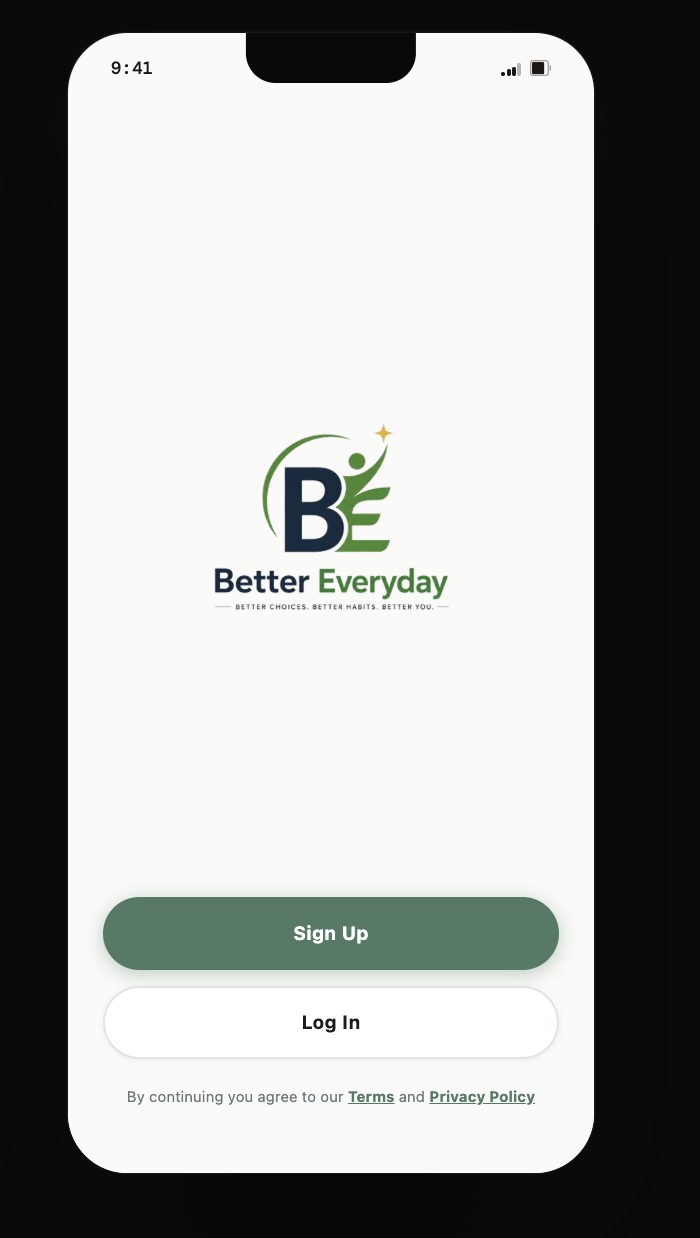
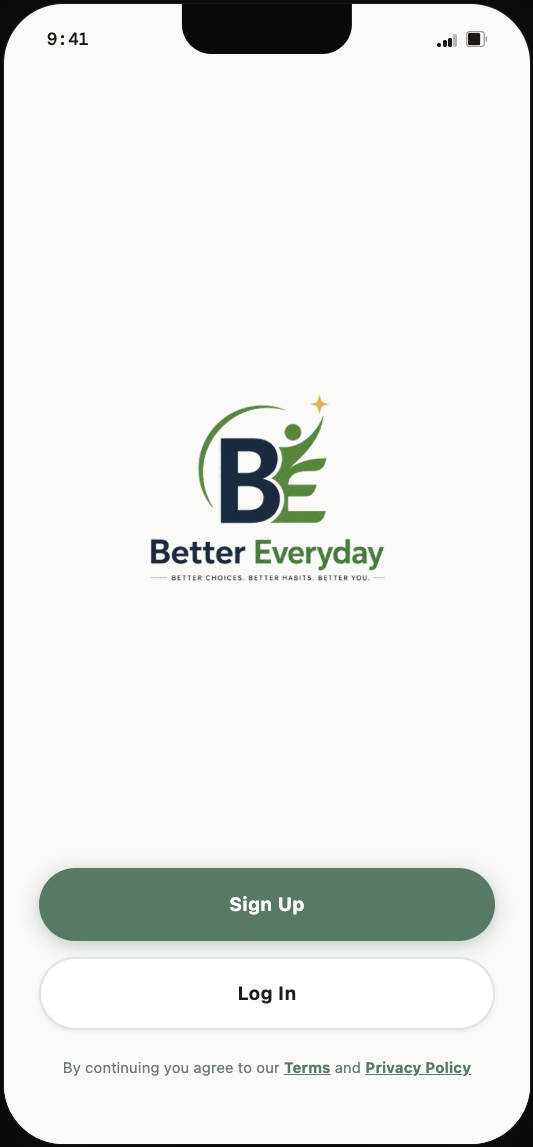
Crop hero mockup and add real store badges
The prelogin.png export had black padding around the phone frame,
which was showing as a dark halo in the hero. Cropped it tight and
swapped the text pill CTAs for actual App Store / Google Play badges.

Claude-Session: https://claude.ai/code/session_01EDTWD7oLbHzTaj5qTHFNUN

diff --git a/src/components/StoreBadges.tsx b/src/components/StoreBadges.tsx
@@ -1,0 +1,42 @@
+function AppleLogo() {
+  return (
+    <svg viewBox="0 0 24 24" className="h-6 w-6 fill-current">
+      <path d="M16.365 1.43c0 1.14-.493 2.27-1.177 3.08-.744.9-1.99 1.57-2.987 1.57-.12 0-.23-.02-.3-.03-.01-.06-.04-.22-.04-.39 0-1.15.572-2.27 1.206-2.98.804-.94 2.142-1.64 3.248-1.68.03.13.05.28.05.43zm4.565 15.71c-.03.07-.463 1.58-1.518 3.12-.945 1.34-1.94 2.71-3.43 2.71-1.517 0-1.9-.88-3.63-.88-1.698 0-2.302.91-3.67.91-1.377 0-2.332-1.26-3.428-2.8-1.287-1.82-2.323-4.63-2.323-7.28 0-4.28 2.797-6.55 5.552-6.55 1.448 0 2.675.95 3.6.95.865 0 2.222-1.01 3.86-1.01.628 0 2.886.06 4.374 2.19-.113.07-2.42 1.4-2.42 4.13 0 3.24 2.892 4.38 2.926 4.4z" />
+    </svg>
+  );
+}
+
+function PlayLogo() {
+  return (
+    <svg viewBox="0 0 24 24" className="h-6 w-6">
+      <path d="M4.8 2.3c-.4.3-.6.8-.6 1.4v16.6c0 .6.2 1.1.6 1.4l.1.1L14.8 12v-.2L4.9 2.2l-.1.1z" fill="#00d7fe" />
+      <path d="M18.1 15.3l-3.3-3.3v-.2l3.3-3.3.1.1 3.9 2.2c1.1.6 1.1 1.6 0 2.2l-4 2.3z" fill="#ffbc00" />
+      <path d="M18.2 15.3L14.8 12 4.8 21.9c.4.4 1 .4 1.7.1l11.7-6.7" fill="#ff3547" />
+      <path d="M18.2 8.7L6.5 2c-.7-.4-1.3-.3-1.7.1L14.8 12l3.4-3.3z" fill="#00d766" />
+    </svg>
+  );
+}
+
+export function AppStoreBadge() {
+  return (
+    <span className="flex cursor-not-allowed items-center gap-2.5 rounded-xl bg-dark px-4 py-2.5 text-white opacity-90">
+      <AppleLogo />
+      <span className="text-left leading-tight">
+        <span className="block text-[10px]">Download on the</span>
+        <span className="block text-lg font-semibold -mt-0.5">App Store</span>
+      </span>
+    </span>
+  );
+}
+
+export function GooglePlayBadge() {
+  return (
+    <span className="flex cursor-not-allowed items-center gap-2.5 rounded-xl bg-dark px-4 py-2.5 text-white opacity-90">
+      <PlayLogo />
+      <span className="text-left leading-tight">
+        <span className="block text-[10px]">GET IT ON</span>
+        <span className="block text-lg font-semibold -mt-0.5">Google Play</span>
+      </span>
+    </span>
+  );
+}

diff --git a/src/components/Hero.tsx b/src/components/Hero.tsx
@@ -1,4 +1,5 @@
 import Image from "next/image";
+import { AppStoreBadge, GooglePlayBadge } from "@/components/StoreBadges";
 
 export function Hero() {
   return (
@@ -22,12 +23,8 @@ export function Hero() {
           </p>
 
           <div className="mt-8 flex flex-wrap items-center gap-3">
-            <span className="flex items-center gap-2 rounded-full border border-line bg-surface px-5 py-2.5 text-sm text-ink-muted">
-              App Store — coming soon
-            </span>
-            <span className="flex items-center gap-2 rounded-full border border-line bg-surface px-5 py-2.5 text-sm text-ink-muted">
-              Google Play — coming soon
-            </span>
+            <AppStoreBadge />
+            <GooglePlayBadge />
           </div>
         </div>
 
@@ -36,8 +33,8 @@ export function Hero() {
           <Image
             src="/hero-mockup.png"
             alt="BetterEveryday app"
-            width={700}
-            height={1238}
+            width={533}
+            height={1147}
             className="w-full rounded-[2.5rem] shadow-xl"
             priority
           />
